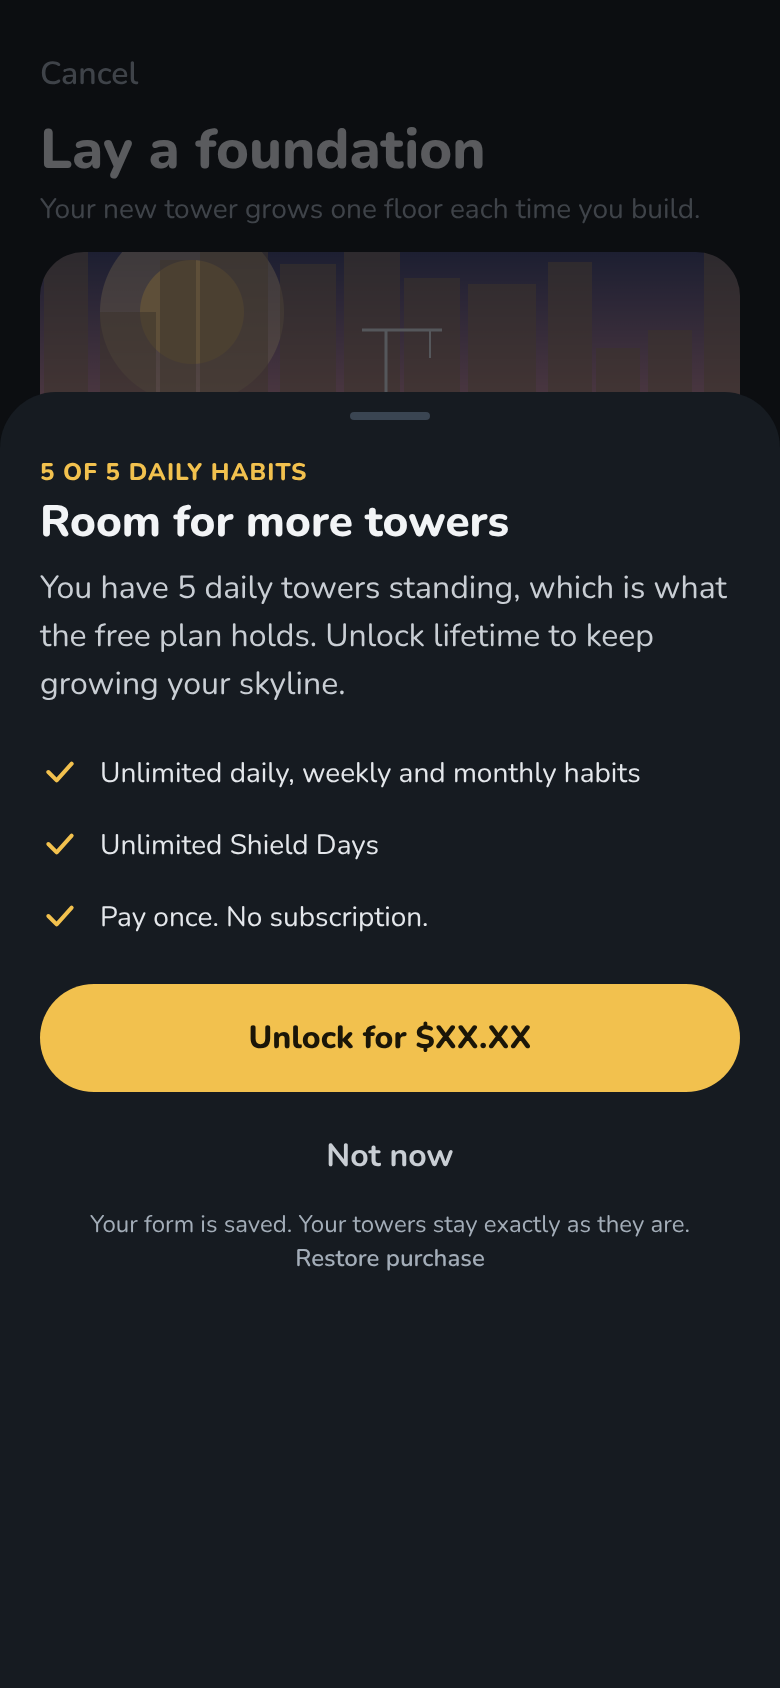
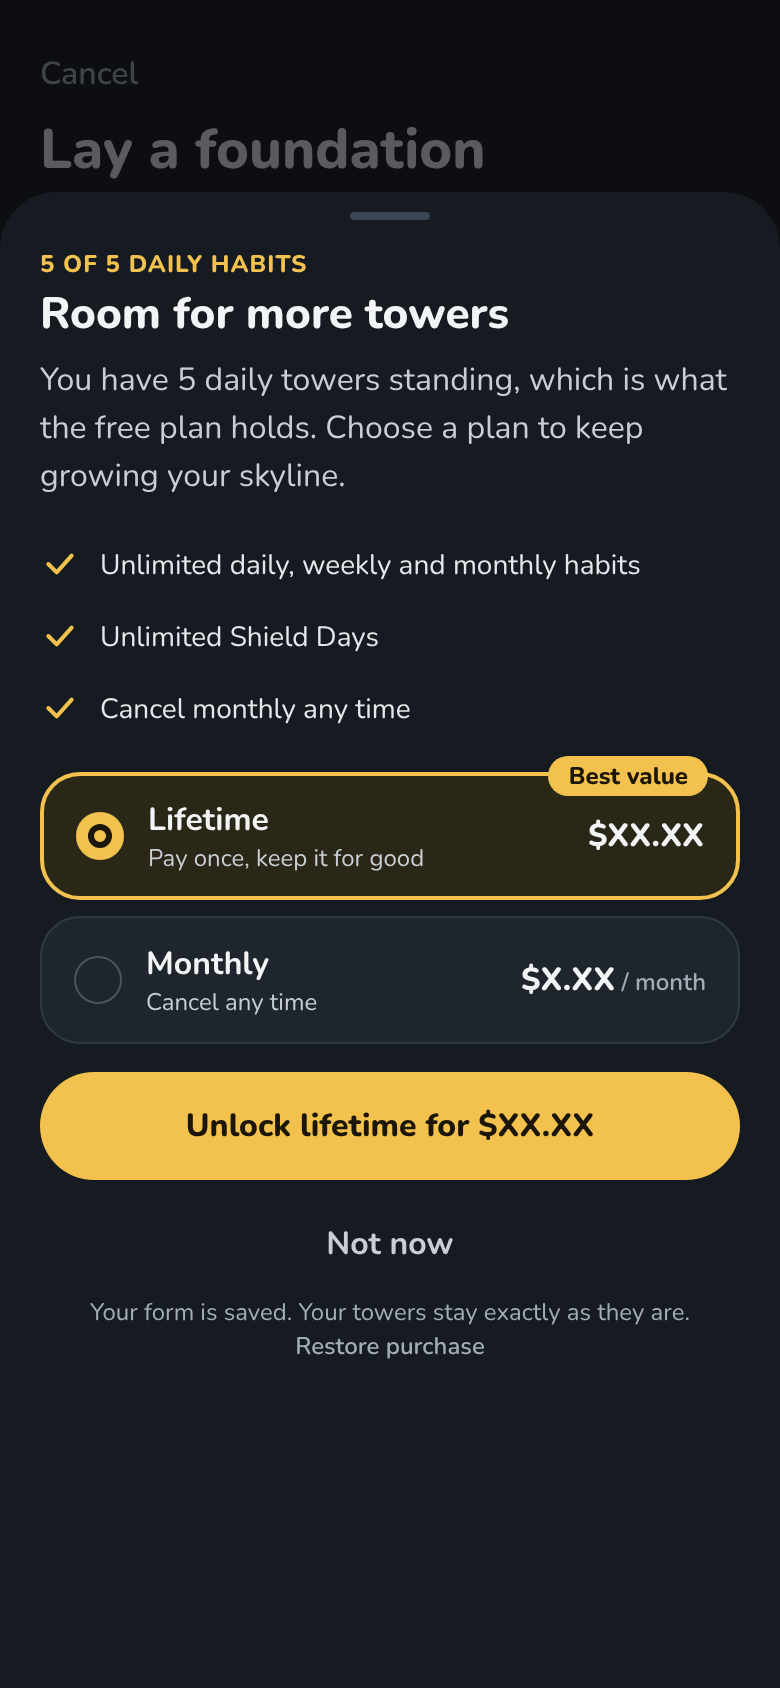
Board 87/88: monthly and lifetime options
Claude-Session: https://claude.ai/code/session_01UvWD32uMFJU1E2B9jDYiLg

diff --git a/design/skyline/source/rd.js b/design/skyline/source/rd.js
@@ -110,16 +110,19 @@ if(S==='rd-sh7'){const opt=(t,sub,on)=>`<div style="display:flex;align-items:cen
 if(S==='rd-pw'){const v=Q.get('v')||'daily';
  const C2={daily:['You have 5 daily towers standing, which is what the free plan holds.','5 of 5 daily habits'],weekly:['Your weekly lot is in use. The free plan holds 1 weekly habit.','1 of 1 weekly habit'],monthly:['Your monthly lot is in use. The free plan holds 1 monthly habit.','1 of 1 monthly habit'],shield:['You have used both Shield Days on the free plan.','2 of 2 Shield Days']}[v];
  const li=t=>`<div style="display:flex;gap:10px;align-items:center;min-height:36px"><svg width="20" height="20" viewBox="0 0 24 24" fill="none" stroke="#F2C14E" stroke-width="2.4" stroke-linecap="round" stroke-linejoin="round"><path d="M5 12l5 5L19 7"/></svg><span style="font-size:14px;color:#E4E7EB">${t}</span></div>`;
- R.innerHTML=`<iframe src="screens.html?s=fo-new" style="position:absolute;inset:0;width:390px;height:844px;border:0"></iframe><div style="position:absolute;inset:0;background:rgba(10,12,15,.66)"></div><div style="position:absolute;top:196px;left:0;right:0;bottom:0;background:#161B21;border-radius:28px 28px 0 0;padding:10px 20px 0"><div style="width:40px;height:4px;border-radius:2px;background:#3A4552;margin:0 auto 18px"></div>
- <div style="font-size:12px;font-weight:800;letter-spacing:.5px;color:#F2C14E">${C2[1].toUpperCase()}</div><div style="font-size:22px;font-weight:800;margin-top:4px;line-height:1.2">Room for more towers</div><div style="font-size:16px;line-height:1.5;color:#C9CED4;margin-top:8px">${C2[0]} Unlock lifetime to keep growing your skyline.</div>
- <div style="margin-top:14px">${li('Unlimited daily, weekly and monthly habits')}${li('Unlimited Shield Days')}${li('Pay once. No subscription.')}</div>
- <div style="margin-top:16px;height:54px;border-radius:27px;background:#F2C14E;color:#1b1608;font-size:16px;font-weight:800;display:flex;align-items:center;justify-content:center">Unlock for $XX.XX</div>
+ R.innerHTML=`<iframe src="screens.html?s=fo-new" style="position:absolute;inset:0;width:390px;height:844px;border:0"></iframe><div style="position:absolute;inset:0;background:rgba(10,12,15,.66)"></div><div style="position:absolute;top:96px;left:0;right:0;bottom:0;background:#161B21;border-radius:28px 28px 0 0;padding:10px 20px 0"><div style="width:40px;height:4px;border-radius:2px;background:#3A4552;margin:0 auto 14px"></div>
+ <div style="font-size:12px;font-weight:800;letter-spacing:.5px;color:#F2C14E">${C2[1].toUpperCase()}</div><div style="font-size:22px;font-weight:800;margin-top:4px;line-height:1.2">Room for more towers</div><div style="font-size:16px;line-height:1.5;color:#C9CED4;margin-top:8px">${C2[0]} Choose a plan to keep growing your skyline.</div>
+ <div style="margin-top:14px">${li('Unlimited daily, weekly and monthly habits')}${li('Unlimited Shield Days')}${li('Cancel monthly any time')}</div>
+ <div style="margin-top:14px;display:flex;flex-direction:column;gap:8px">
+  <div style="position:relative;min-height:64px;border-radius:20px;background:#2B2717;border:2px solid #F2C14E;display:flex;align-items:center;padding:0 16px;gap:12px"><i style="width:24px;height:24px;border-radius:12px;display:block;background:#F2C14E;box-shadow:inset 0 0 0 6px #F2C14E,inset 0 0 0 9px #1b1608"></i><div style="flex:1"><div style="font-size:16px;font-weight:700">Lifetime</div><div style="font-size:12px;color:#C9CED4">Pay once, keep it for good</div></div><div style="font-size:16px;font-weight:800">$XX.XX</div><div style="position:absolute;top:-10px;right:14px;height:20px;padding:0 10px;border-radius:10px;background:#F2C14E;color:#1b1608;font-size:12px;font-weight:800;display:flex;align-items:center">Best value</div></div>
+  <div style="min-height:64px;border-radius:20px;background:#1E252D;border:1.5px solid #2F3944;display:flex;align-items:center;padding:0 16px;gap:12px"><i style="width:24px;height:24px;border-radius:12px;display:block;border:1.5px solid #4a5560"></i><div style="flex:1"><div style="font-size:16px;font-weight:700">Monthly</div><div style="font-size:12px;color:#C9CED4">Cancel any time</div></div><div style="font-size:16px;font-weight:800">$X.XX<span style="font-size:12px;font-weight:600;color:#A3ADB8"> / month</span></div></div></div>
+ <div style="margin-top:14px;height:54px;border-radius:27px;background:#F2C14E;color:#1b1608;font-size:16px;font-weight:800;display:flex;align-items:center;justify-content:center">Unlock lifetime for $XX.XX</div>
  <div style="margin-top:8px;height:48px;border-radius:24px;display:flex;align-items:center;justify-content:center;font-size:16px;font-weight:700;color:#C9CED4">Not now</div>
  <div style="text-align:center;font-size:12px;color:#A3ADB8;margin-top:2px;line-height:1.4">Your form is saved. Your towers stay exactly as they are.<br><span style="font-weight:600">Restore purchase</span></div></div>`;}
 if(S==='rd-cp'){const rows=[['daily','Daily habit','5 of 5 daily habits','You have 5 daily towers standing, which is what the free plan holds.'],['weekly','Weekly habit','1 of 1 weekly habit','Your weekly lot is in use. The free plan holds 1 weekly habit.'],['monthly','Monthly habit','1 of 1 monthly habit','Your monthly lot is in use. The free plan holds 1 monthly habit.'],['shield','Third Shield Day','2 of 2 Shield Days','You have used both Shield Days on the free plan.']];
  document.body.style.width='820px';document.body.style.height='520px';
- R.innerHTML=`<div style="position:absolute;inset:0;background:#0F1216;padding:16px 20px 0"><div style="font-size:12px;font-weight:800;letter-spacing:.5px;color:#F2C14E">PAYWALL COPY BY CAP · SAME SHEET, ONLY THESE LINES CHANGE</div><div style="margin-top:6px;color:#A3ADB8;font-size:13px">Headline always: Room for more towers · Button: Unlock for $XX.XX · Dismiss: Not now · Footer: Your form is saved. Your towers stay exactly as they are. · Restore purchase</div>
- <div style="display:grid;grid-template-columns:1fr 1fr;gap:12px;margin-top:14px">${rows.map(r=>`<div style="background:#161B21;border-radius:20px;padding:14px 16px"><div style="font-size:12px;font-weight:800;letter-spacing:.5px;color:#A3ADB8">WHEN SAVING A ${r[1].toUpperCase()}</div><div style="font-size:12px;font-weight:800;letter-spacing:.5px;color:#F2C14E;margin-top:8px">${r[2].toUpperCase()}</div><div style="font-size:16px;line-height:1.5;margin-top:4px">${r[3]} Unlock lifetime to keep growing your skyline.</div></div>`).join('')}</div>
+ R.innerHTML=`<div style="position:absolute;inset:0;background:#0F1216;padding:16px 20px 0"><div style="font-size:12px;font-weight:800;letter-spacing:.5px;color:#F2C14E">PAYWALL COPY BY CAP · SAME SHEET, ONLY THESE LINES CHANGE</div><div style="margin-top:6px;color:#A3ADB8;font-size:13px">Headline always: Room for more towers · Button: Unlock lifetime for $XX.XX (follows the selected plan: Start monthly for $X.XX) · Dismiss: Not now · Footer: Your form is saved. Your towers stay exactly as they are. · Restore purchase</div>
+ <div style="display:grid;grid-template-columns:1fr 1fr;gap:12px;margin-top:14px">${rows.map(r=>`<div style="background:#161B21;border-radius:20px;padding:14px 16px"><div style="font-size:12px;font-weight:800;letter-spacing:.5px;color:#A3ADB8">WHEN SAVING A ${r[1].toUpperCase()}</div><div style="font-size:12px;font-weight:800;letter-spacing:.5px;color:#F2C14E;margin-top:8px">${r[2].toUpperCase()}</div><div style="font-size:16px;line-height:1.5;margin-top:4px">${r[3]} Choose a plan to keep growing your skyline.</div></div>`).join('')}</div>
  <div style="margin-top:12px;font-size:13px;color:#A3ADB8;line-height:1.4">Never names or hints at Ask Habituate. Never says "can't", "limit reached" or "locked out".</div></div>`;}
 if(S==='rd-sn'){document.body.style.width="820px";document.body.style.height="470px";
  const crop=(lab,sub)=>`<div style="width:390px"><div style="width:390px;height:340px;overflow:hidden;position:relative;border-radius:12px"><div style="position:absolute;left:0;top:-172px">${scene(lab,sub)}</div></div></div>`;

diff --git a/design/skyline/README.md b/design/skyline/README.md
@@ -137,3 +137,6 @@ Free caps: 5 daily, 1 weekly, 1 monthly, 2 Shield Days. Ask Habituate is not par
 | 88 | `88-paywall-copy-by-cap.png` | Exact lines for daily, weekly, monthly and Shield Day. Nothing says "can't", "limit reached" or "locked". |
 | 89 | `89-profile-plan-and-unlock.png` | Quiet usage line inside the skyline card ("Free plan · 4 of 5 daily · 1 of 1 weekly · 0 of 1 monthly · 1 of 2 Shield Days", meta 12) and an amber "Unlock everything" row above "Share my skyline". Paid users see neither. |
 | 90 | `90-skyline-add-lot-near-and-at-cap.png` | Skyline tab: near the cap the label under the empty lot reads "1 left" in grey; at the cap the lot outline and label turn amber and read "Unlock". No banner. |
+
+
+**Update 2026-11-24 (owner decision):** board 87 now offers two plans, Lifetime (selected by default, "Best value" tag, $XX.XX one time) and Monthly ($X.XX / month, cancel any time). The button follows the selection ("Unlock lifetime for $XX.XX" or "Start monthly for $X.XX"). Body copy now ends "Choose a plan to keep growing your skyline." and the third benefit reads "Cancel monthly any time". Prices are placeholders from RevenueCat. Awaiting the owner's confirmation of the drawing.
